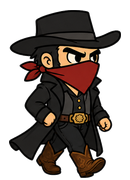
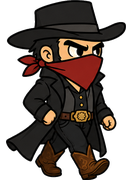
Give the Outlaw Kingpin a longer patrol and a walk cycle that reads
He paced a short strip of the yard with frames swapped at a fixed 8 FPS,
so his legs cycled about twice as fast as he travelled, and he popped a
size smaller whenever he halted to shoot.

Widen the arena floor and let him pace 700..1780 with springs spread
along it, drive the cycle by ground covered so the boots plant, and hold
a beat at each turn. Rebuild the frames on one shared scale, the standing
art's foot row, and an upper-body sway anchor so the drawn head bob
survives and the standing pose swaps in cleanly.

diff --git a/tools/build_kingpin_frames.py b/tools/build_kingpin_frames.py
@@ -1,7 +1,11 @@
 """Build Outlaw Kingpin walk frames from `assets/source/kingpin/walk_strip.png`.
 
-Standing art stays `assets/world/boss_outlaw_kingpin.png`. Walk frames match
-that 130×180 canvas so feet stay registered.
+Standing art stays `assets/world/boss_outlaw_kingpin.png`. All four frames share
+one scale, one foot line, and one upper-body anchor, so the cycle keeps the
+drawn head bob instead of being stretched to a uniform height, the boots stay on
+the same ground row, and the torso does not slide sideways as the stride opens.
+The tallest stride matches the standing canvas height so he does not pop when he
+halts to shoot.
 
     python tools/build_kingpin_frames.py
 """
@@ -9,15 +13,39 @@ from __future__ import annotations
 
 from pathlib import Path
 
-from art_pipeline import cutout, frame_sprite, slice_strip
+from PIL import Image
+
+from art_pipeline import cutout, slice_strip
 
 ROOT = Path(__file__).resolve().parent.parent
 SRC = ROOT / "assets" / "source" / "kingpin" / "walk_strip.png"
 OUT = ROOT / "assets" / "world"
+STAND = ROOT / "assets" / "world" / "boss_outlaw_kingpin.png"
 
 CANVAS = (130, 180)
-BASELINE = 178
-BODY_H = 168
+## Fraction of the figure treated as "upper body" when picking the sway anchor.
+UPPER_BODY_FRAC = 0.35
+
+
+def _alpha_bbox(im: Image.Image) -> tuple[int, int, int, int] | None:
+	"""Bounds of visible pixels only — `Image.getbbox` also counts cleared pixels
+	that kept their painted RGB, which would pad the figure with dead margin."""
+	return im.split()[3].getbbox()
+
+
+def _upper_body_center(fig: Image.Image) -> float:
+	"""Alpha-weighted horizontal centre of hat, head and shoulders."""
+	width, height = fig.size
+	alpha = fig.split()[3].load()
+	total = 0
+	weighted = 0
+	for y in range(max(1, int(height * UPPER_BODY_FRAC))):
+		for x in range(width):
+			value = alpha[x, y]
+			if value > 16:
+				total += value
+				weighted += value * x
+	return weighted / total if total else width * 0.5
 
 
 def build() -> None:
@@ -34,9 +62,36 @@ def build() -> None:
 			reverse=True,
 		)[:4]
 		segs = [segs[i] for i in sorted(ranked)]
-	for i, seg in enumerate(segs[:4]):
+
+	figures: list[Image.Image] = []
+	for seg in segs[:4]:
+		bbox = _alpha_bbox(seg)
+		if bbox is None:
+			raise SystemExit("Empty walk figure in strip")
+		figures.append(seg.crop(bbox))
+
+	stand_box = _alpha_bbox(Image.open(STAND).convert("RGBA"))
+	if stand_box is None:
+		raise SystemExit(f"Empty standing art {STAND}")
+	stand_h = stand_box[3] - stand_box[1]
+	# Share the standing art's foot row so the pose can swap without a hitch.
+	baseline = stand_box[3]
+	scale = stand_h / max(fig.size[1] for fig in figures)
+	canvas_w, _ = CANVAS
+	for i, fig in enumerate(figures):
+		width = max(1, round(fig.size[0] * scale))
+		height = max(1, round(fig.size[1] * scale))
+		if width > canvas_w:
+			height = max(1, round(height * canvas_w / width))
+			width = canvas_w
+		scaled = fig.resize((width, height), Image.LANCZOS)
+		anchor = _upper_body_center(scaled)
+		left = int(round(canvas_w * 0.5 - anchor))
+		left = max(min(left, canvas_w - width), min(0, canvas_w - width))
+		frame = Image.new("RGBA", CANVAS, (0, 0, 0, 0))
+		frame.alpha_composite(scaled, (left, baseline - height))
 		path = OUT / f"boss_outlaw_kingpin_walk_{i}.png"
-		frame_sprite(seg, canvas=CANVAS, target_h=BODY_H, baseline=BASELINE).save(path)
+		frame.save(path)
 		print("wrote", path.relative_to(ROOT))
 
 

diff --git a/README.md b/README.md
@@ -91,7 +91,7 @@ godot --headless --path . res://tests/test_moving_platform_obstruction.tscn
 |-------|------|----------------|
 | Level 3 | Stampede Bull | Bounce past horns; lasso glowing back ring 3× while stunned |
 | Level 7 | Midnight Coach | Horse chase; lasso door handles 1→2→3 |
-| Level 10 | Outlaw Kingpin | Lasso both guards, then the kingpin once (walk cycle while patrolling) |
+| Level 10 | Outlaw Kingpin | Lasso both guards, then the kingpin once. He paces a long stretch of the yard (springs spread along it for vaulting), pausing a beat at each turn; his walk cycle is driven by ground covered, and the frames share the standing pose's height and foot line so halting to shoot never pops his size |
 | Level 16 | Cave Dragon | Starts on the floor, takes off into L↔R flight spitting straight flameballs that die on the floor (2×2), land for lasso; repeat; ropes on the flying frames match the floor tied stages (neck, then neck+torso); 3rd lasso ties the mouth |
 
 After Kingpin the campaign continues into the cave (levels 11–16). After the Cave Dragon: horizon victory ride, fade, dedication **VOM PAPI FÜR FINN**, then save select.
